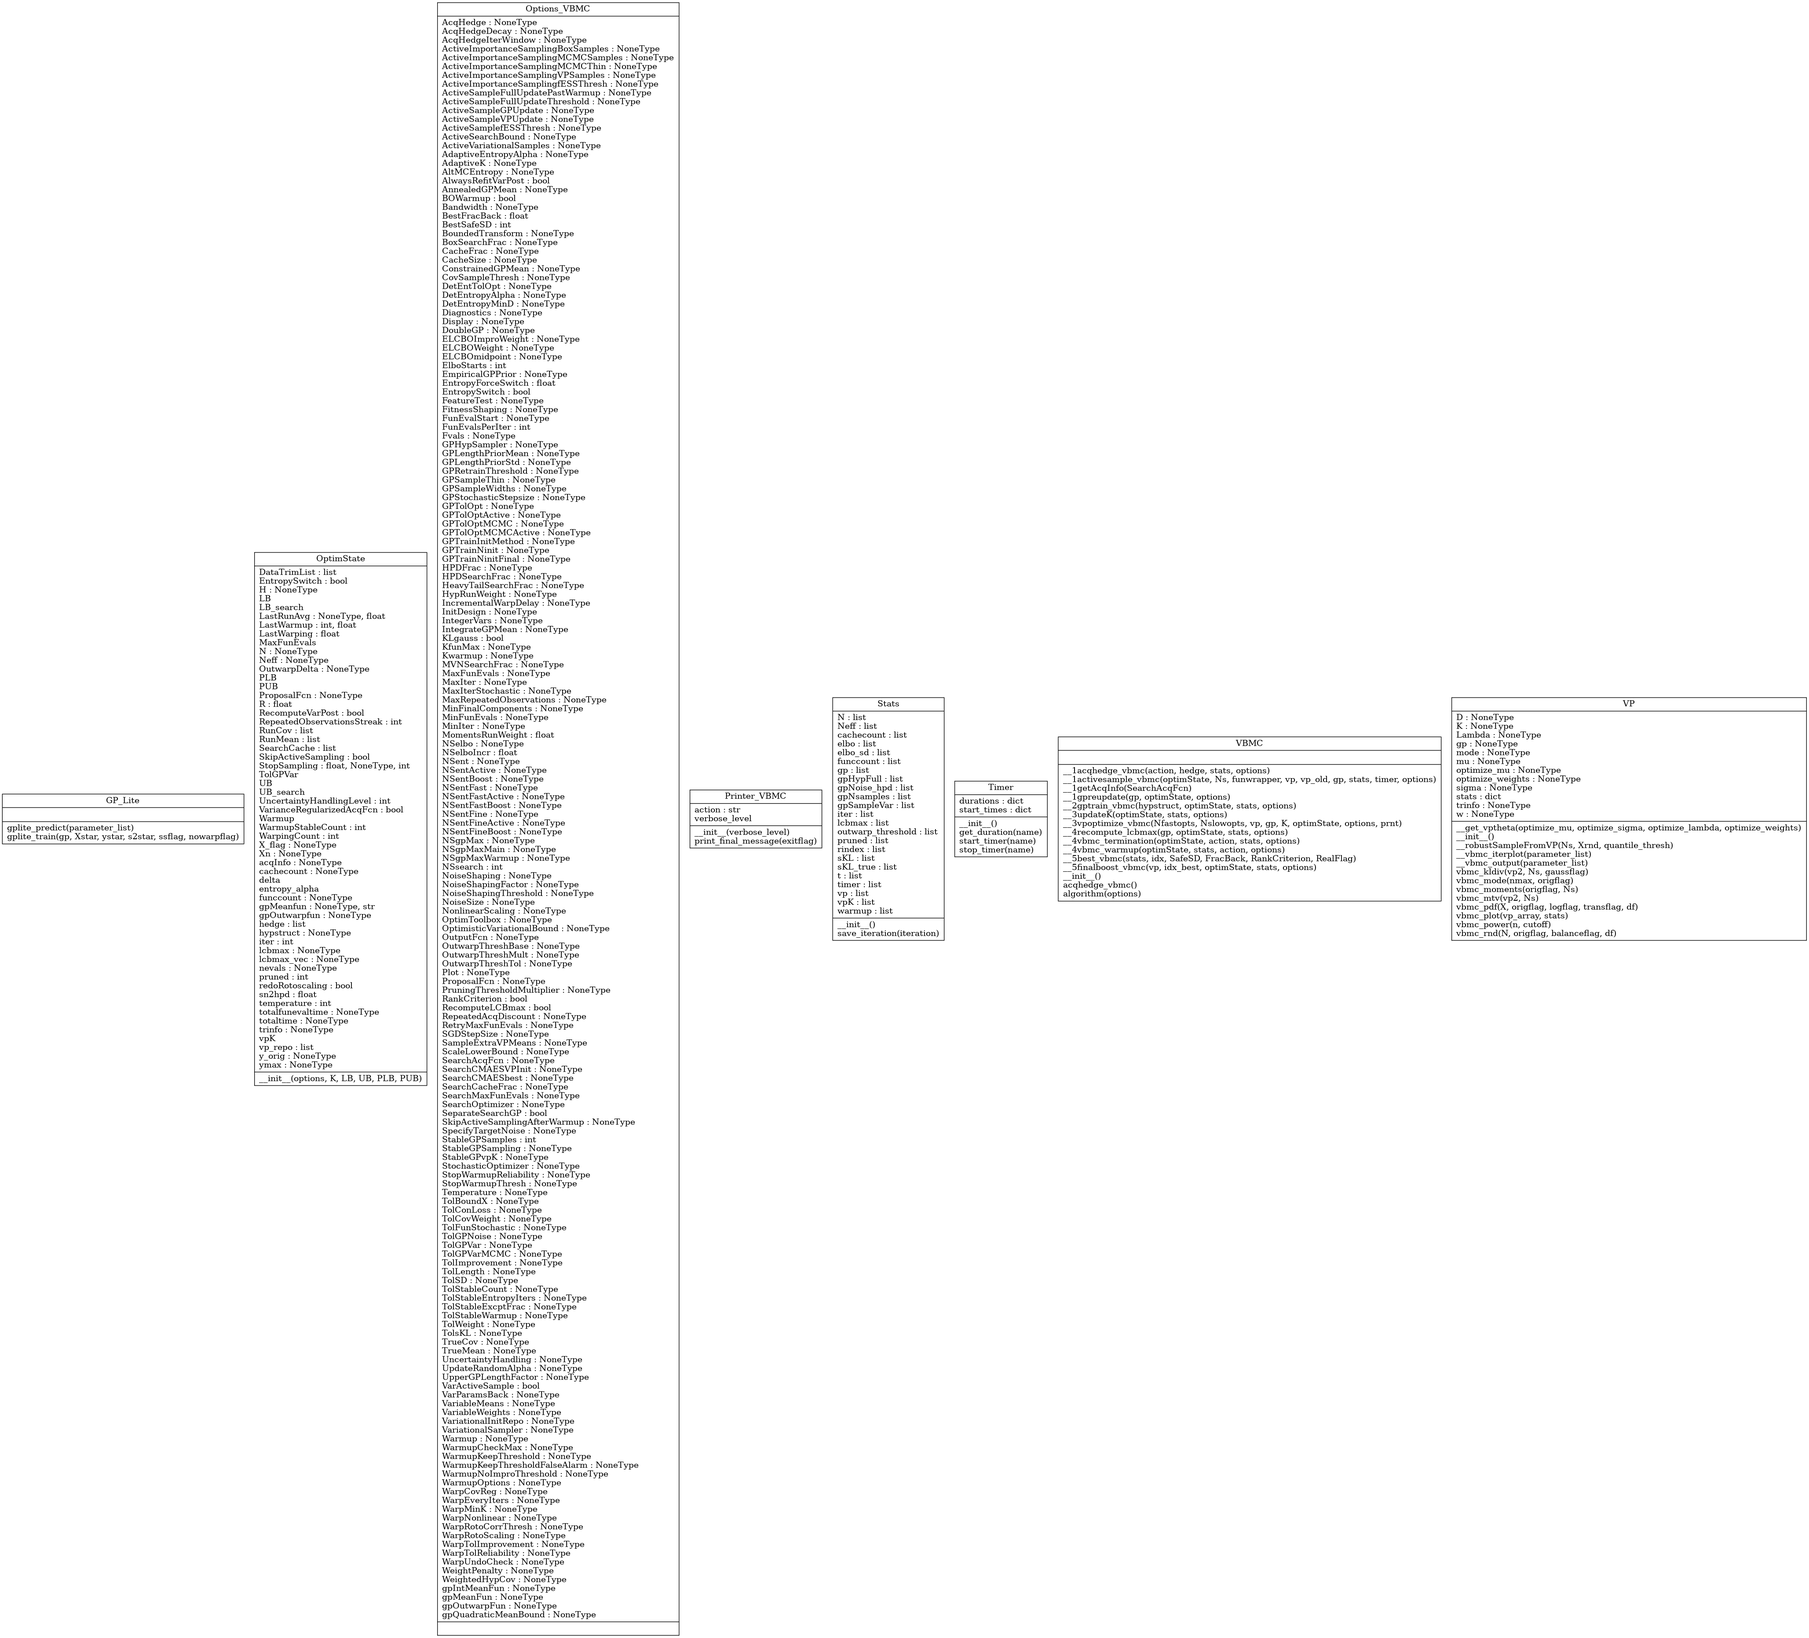
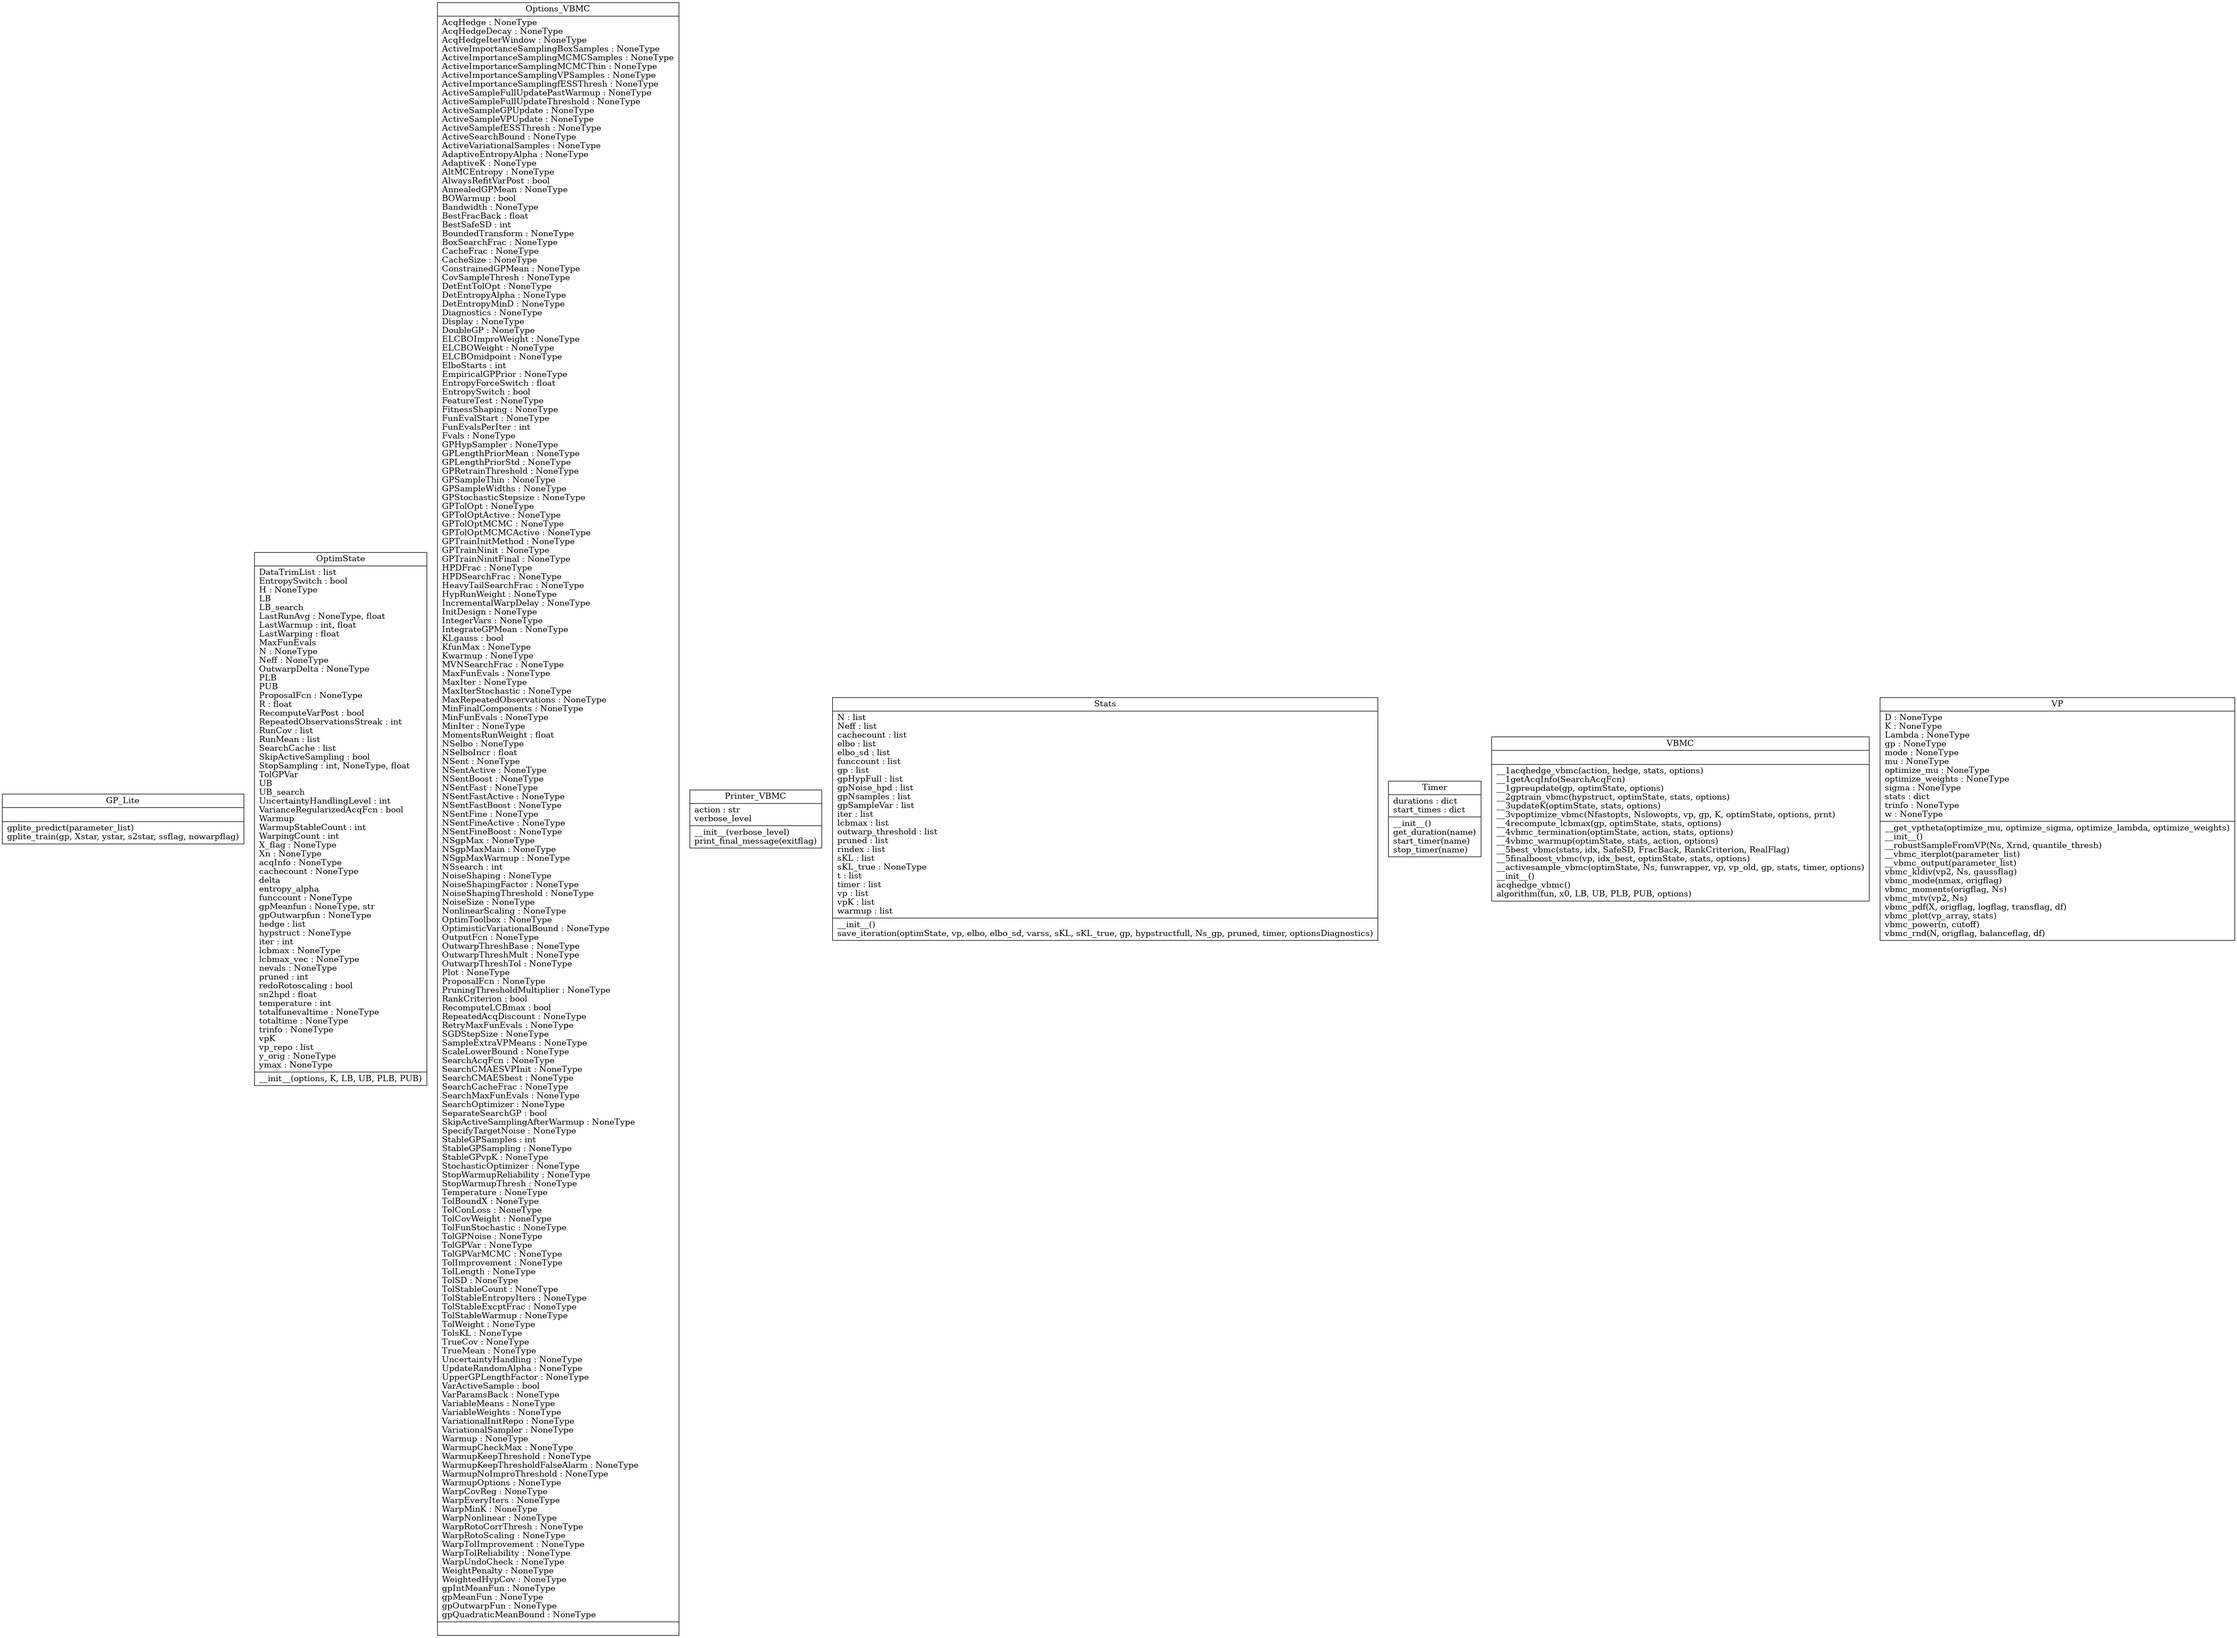
feat: add init setup to vbmc algorithm

diff --git a/initialCodePort/vbmc/vbmc.py b/initialCodePort/vbmc/vbmc.py
@@ -1,4 +1,5 @@
 import math
+import sys
 from gaussian_process import GP_Lite
 from .optimstate_vbmc import OptimState
 from .options_vbmc import Options_VBMC
@@ -17,7 +18,7 @@ class VBMC(object):
     def __init__(self):
         pass
 
-    def algorithm(self, options=Options_VBMC):
+    def algorithm(self, fun, x0, LB, UB, PLB, PUB, options=Options_VBMC):
         """
         This is a perliminary version of the VBMC loop in order to identify possible objects
         """
@@ -26,8 +27,83 @@ class VBMC(object):
         hypstruct = None
         stats = Stats()
         timer = Timer()
-
         prnt = 1  # configure verbosity of the algorithm
+
+        # Start timer
+        timer.start_timer("total_runtime")
+
+        # Input arguments
+
+        # isempty(LB); LB = -Inf
+        # isempty(UB) UB = Inf
+
+        # Initialize variables and algorithm structures
+
+        if x0 is None:
+            if prnt > 2:
+                print(
+                    "X0 not specified. Taking the number of dimensions from PLB and PUB..."
+                )
+
+            if PLB is None or PUB is None:
+                sys.exit(
+                    "vbmc:UnknownDims: If no starting point is provided, PLB and PUB need to be specified."
+                )
+            x0 = NaN(size(PLB))
+            if prnt > 2:
+                print(" D = %d.\n", numel(x0))
+
+        # Initialize from variational posterior
+        # if vbmc_isavp(x0):
+        #     init_from_vp_flag = True
+        #     vp0 = x0
+        #     [x0,LB,UB,PLB,PUB,Xvp] = initFromVP(vp0,LB,UB,PLB,PUB,prnt)
+        # else:
+        #     init_from_vp_flag = False
+
+        D = size(x0, 2)  # Number of variables
+
+        # Setup algorithm options
+        options = setupoptions_vbmc(D, defopts, options)
+        if options.Warmup:
+            options_main = options
+            # Use special options during Warmup
+            if "WarmupOptions" in options:
+                WarmupOptions = options.WarmupOptions
+                # Copy these fields to avoid re-update in SETUPOPTIONS_VBMC
+                copyfields = [
+                    "MaxFunEvals",
+                    "TolStableCount",
+                    "ActiveSampleGPUpdate",
+                    "ActiveSampleVPUpdate",
+                    "SearchAcqFcn",
+                ]
+                for f in copyfields:
+                    if f not in WarmupOptions:
+                        WarmupOptions.f = options.f
+                options = setupoptions_vbmc(D, options, WarmupOptions)
+
+        # if init_from_vp_flag:    # Finish initialization from variational posterior
+        #     x0 = [x0; robustSampleFromVP(vp0,options.FunEvalStart-1,Xvp)]
+        #     clear Xvp vp0
+
+        # Check/fix boundaries and starting points
+        x0, LB, UB, PLB, PUB = boundscheck_vbmc(x0, LB, UB, PLB, PUB, prnt)
+
+        # Setup and transform variables, prepare OPTIMSTATE settings struct
+        K = options.Kwarmup
+
+        # Store target density function
+        optimState.fun = fun
+        # funwrapper = @(u_) fun(u_,varargin{:});
+
+        # Get information from acquisition function(s)
+        optimState.acqInfo = getAcqInfo(options.SearchAcqFcn)
+
+        # Initialize function logger
+        [_, optimState] = funlogger_vbmc(
+            [], D, optimState, "init", options.CacheSize
+        )
 
         optimState = OptimState()
 
@@ -101,11 +177,10 @@ class VBMC(object):
                 if options.VarActiveSample:
                     # FIX TIMER HERE IF USING THIS
                     # [optimState,vp,t_active,t_func] = variationalactivesample_vbmc(optimState,new_funevals,funwrapper,vp,vp_old,gp_search,options)
-                    print("Function currently not supported")
-                    exit(1)
+                    sys.exit("Function currently not supported")
                 else:
                     optimState.hypstruct = hypstruct
-                    optimState, vp, gp, timer = self.__1activesample_vbmc(
+                    optimState, vp, gp, timer = self.__activesample_vbmc(
                         optimState,
                         new_funevals,
                         funwrapper,
@@ -259,8 +334,10 @@ class VBMC(object):
                 Ns_gp,
                 pruned,
                 timer,
-                options.Diagnostics
+                options.Diagnostics,
             )
+
+            # stats.warmup[loopiter] = optimState.Warmup
 
             """
             Check termination conditions and warmup
@@ -302,8 +379,6 @@ class VBMC(object):
                     optimState.acqInfo = getAcqInfo(
                         options.SearchAcqFcn
                     )  # Re-get acq info
-
-            stats.warmup[loopiter] = optimState.Warmup
 
             # Check and update fitness shaping / output warping threshold
             if (
@@ -400,7 +475,11 @@ class VBMC(object):
                             action,
                         )
 
-            stats.timer(loopiter).totalruntime = toc(t0)
+            timer.stop_timer("total_runtime")
+
+            stats.timer[loopiter].totalruntime = timer.get_duration(
+                "total_runtime"
+            )
 
         """
         End of VBMC loop
@@ -465,7 +544,7 @@ class VBMC(object):
 
     # Active Sampling
 
-    def __1activesample_vbmc(
+    def __activesample_vbmc(
         self, optimState, Ns, funwrapper, vp, vp_old, gp, stats, timer, options
     ):
         """
